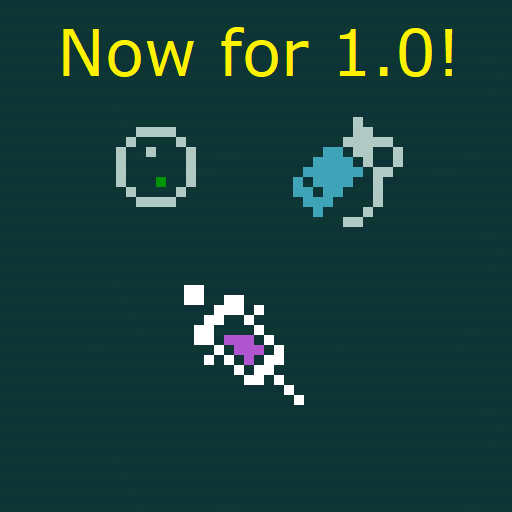
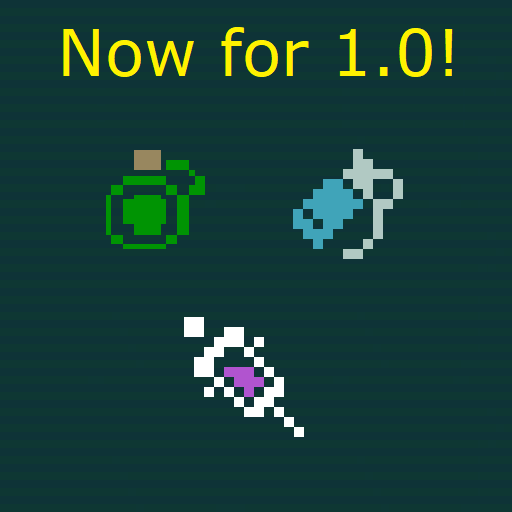
1.1 - adds water, clean, quench commands

Changed region(s): [[0.5625, 0.2188, 0.8125, 0.5312], [0.3438, 0.5312, 0.5938, 0.875], [0.1875, 0.25, 0.4062, 0.5]]

diff --git a/EasyCommand_Part.cs b/EasyCommand_Part.cs
@@ -33,6 +33,10 @@ namespace EasyCommand
             {
                 EasyClean(E.Actor);
             }
+            else if (E.Command == "Easy_Quench")
+            {
+                EasyQuench(E.Actor);
+            }
             return base.HandleEvent(E);
         }
 
@@ -158,6 +162,27 @@ namespace EasyCommand
 
             var container = waterContainers[0];
             InventoryActionEvent.Check(container, who, container, "CleanWithLiquid");
+        }
+
+        public void EasyQuench(GameObject who) {
+            if (!who.IsPlayer()) return;
+            var waterContainers = who.GetInventory().Where(x => (x.GetInventoryCategory() == "Water Containers")).Where(x => (x.LiquidVolume.IsFreshWater() && x.LiquidVolume.Volume > 0)).OrderBy(x => RankCleanContainer(x)).ToArray();
+            if (waterContainers.Length == 0) {
+                Popup.ShowFail("You have no fresh water available.");
+                return;
+            }
+        
+            var container = waterContainers[0];
+
+            // The below code is simplified a simplified version of what happens in LiquidVolume::Pour
+            int PourAmount = 1;
+            PlayWorldSound("Sounds/Interact/sfx_interact_liquidContainer_pourout");
+            Popup.Show(PourAmount.Things("dram") + " of " + container.LiquidVolume.GetLiquidName() + " pours out all over you!");
+            PourAmount -= container.LiquidVolume.ProcessContact(who, Initial: true, Poured: true, PouredBy: who, ContactVolume: PourAmount);
+            if (PourAmount <= 0) return;
+
+            bool RequestInterfaceExit = false;
+            container.LiquidVolume.PourIntoCell(who, who.GetCurrentCell(), PourAmount, ref RequestInterfaceExit, CanPourOn: true);
         }
 	}
 }
